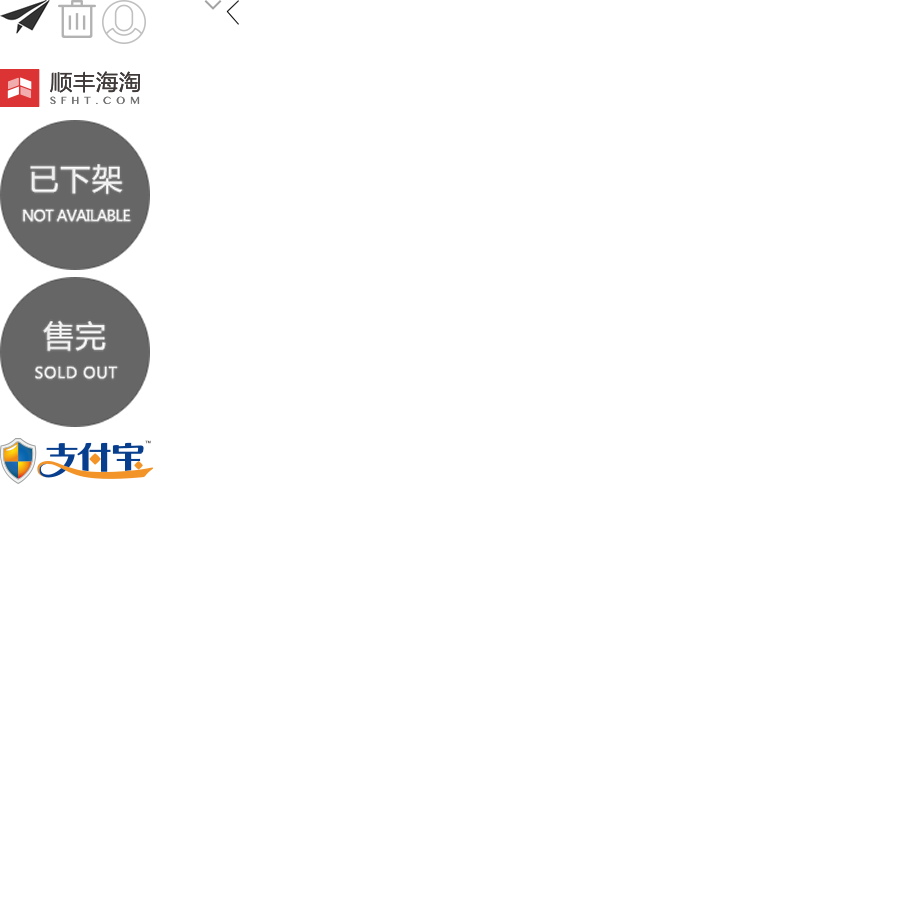
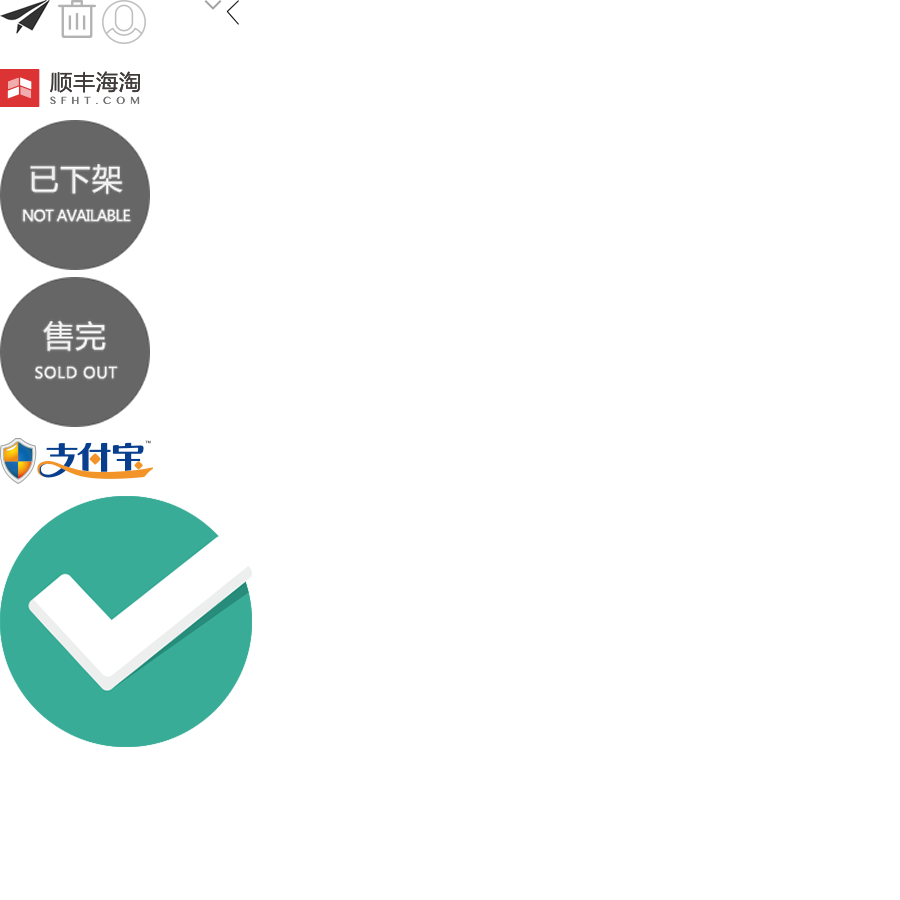
支付成功

Changed region(s): [[0.0, 0.5289, 0.28, 0.84]]

diff --git a/app/static/pay-success.html b/app/static/pay-success.html
@@ -1,0 +1,18 @@
+<!DOCTYPE html>
+<html>
+<head>
+	<meta charset="UTF-8">
+	<meta name="viewport" content="width=device-width, initial-scale=1, maximum-scale=1, user-scalable=no">
+	<title>支付成功</title>
+	<link rel="stylesheet" href="css/style.css">
+
+</head>
+<body>
+	<!--支付成功-->
+	<section class="pay-success">
+		<span class="icon icon11"></span>
+		<h1>恭喜您,订单支付成功</h1>
+		<a href="order.html" class="btn btn-warnning btn-big">返回订单列表</a>
+	</section>
+	<!--支付成功-->
+</html>

diff --git a/app/static/order-manage.html b/app/static/order-manage.html
@@ -14,7 +14,7 @@
 		<h2>收货地址</h2>
 		<ul>
 			<li class="box box-address">
-				<div class="box-address-c1 fr">
+				<div class="box-address-c1">
 					<span class="icon icon7 center">删除</span>
 				</div>
 				<div class="box-address-c2">
@@ -24,7 +24,7 @@
 				</div>					
 			</li>
 			<li class="box box-address">
-				<div class="box-address-c1 fr">
+				<div class="box-address-c1">
 					<span class="icon icon7 center">删除</span>
 				</div>
 				<div class="box-address-c2">

diff --git a/app/static/css/style.css b/app/static/css/style.css
@@ -172,6 +172,12 @@ img{
   height: 13px;
   background-position: -113px 0;
 }
+.icon11{
+  width: 126px;
+  height: 126px;
+  background-position: 0 -248px;
+
+}
 /*btn*/
 .btn{
   display:inline-block;
@@ -651,4 +657,14 @@ img{
   position: absolute;
   right: -8px;
   top: 0;
+}
+/*支付成功*/
+.pay-success{
+  padding: 77px 14px 33px;
+  background: #fff;
+  text-align: center;
+}
+.pay-success h1{
+  margin-top: 35px;
+  margin-bottom: 81px;
 }

diff --git a/app/static/common.html b/app/static/common.html
@@ -41,6 +41,7 @@
 	<span class="icon icon8"></span>
 	<span class="icon icon9"></span>
 	<span class="icon icon10"></span>
+	<span class="icon icon11"></span>
 	<h2>btn</h2>
 	<button class="btn btn-normal">btn-normal</button>
 	<button class="btn btn-normal dashed">dashed</button>
